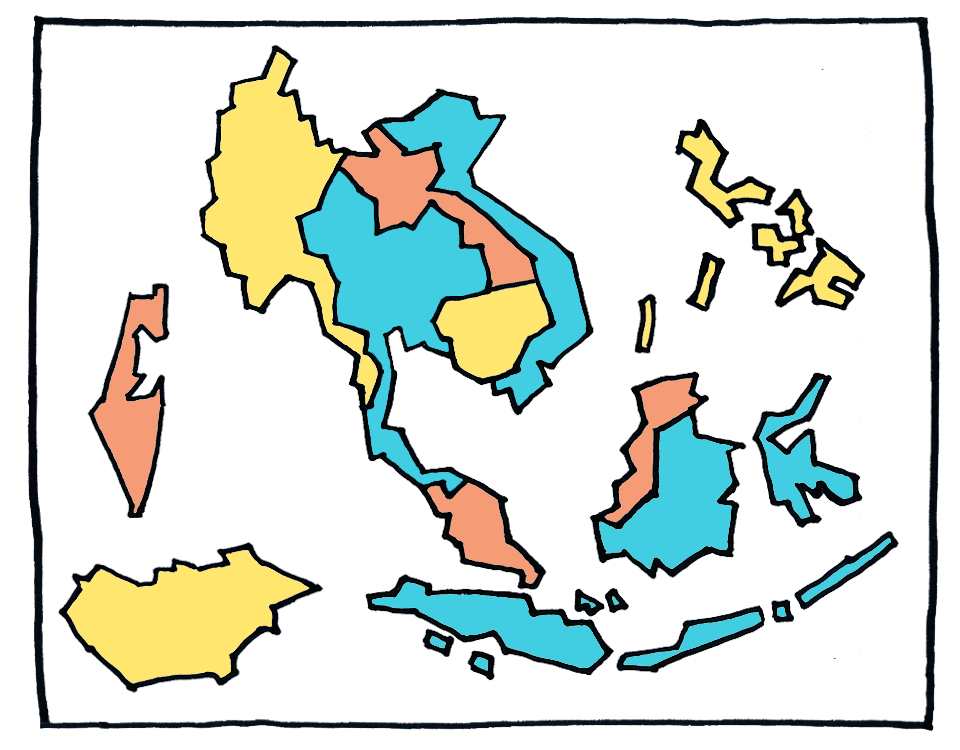
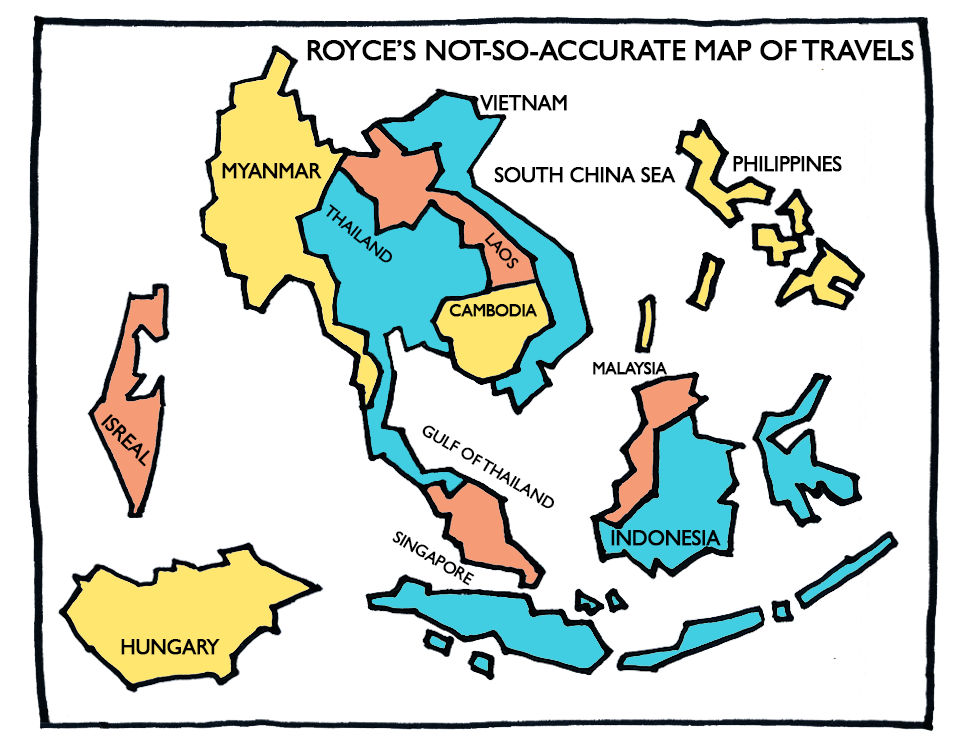
Added labels to map

diff --git a/home.html b/home.html
@@ -42,7 +42,7 @@
 			</div>
 			<div class="link-container">
 				<div class="journal">
-					<a href="http://ashyfeet.tumblr.com/" class="link"><img src="images/journal.png" class="link-img" /></a>
+					<a href="http://nhrnjournal.tumblr.com/" class="link"><img src="images/journal.png" class="link-img" /></a>
 					<img src="images/journal-bg.png" class="link-bg journal-bg" />
 				</div>
 				<div class="teaser">

diff --git a/stylesheets/style.css b/stylesheets/style.css
@@ -308,8 +308,8 @@ footer {
 }
 
 .map-location:nth-child(2) {
-	top: 23%;
-	left: 54%;
+	top: 25%;
+	left: 56%;
 }
 
 .map-location:nth-child(3) {
@@ -318,17 +318,17 @@ footer {
 }
 
 .map-location:nth-child(4) {
-	top: 39%;
+	top: 43%;
 	left: 44%;
 }
 
 .map-location:nth-child(5) {
-	top: 27%;
-	left: 35%;
+	top: 35%;
+	left: 33%;
 }
 
 .map-location:nth-child(6) {
-	top: 8%;
+	top: 10%;
 	left: 35%;
 }
 
